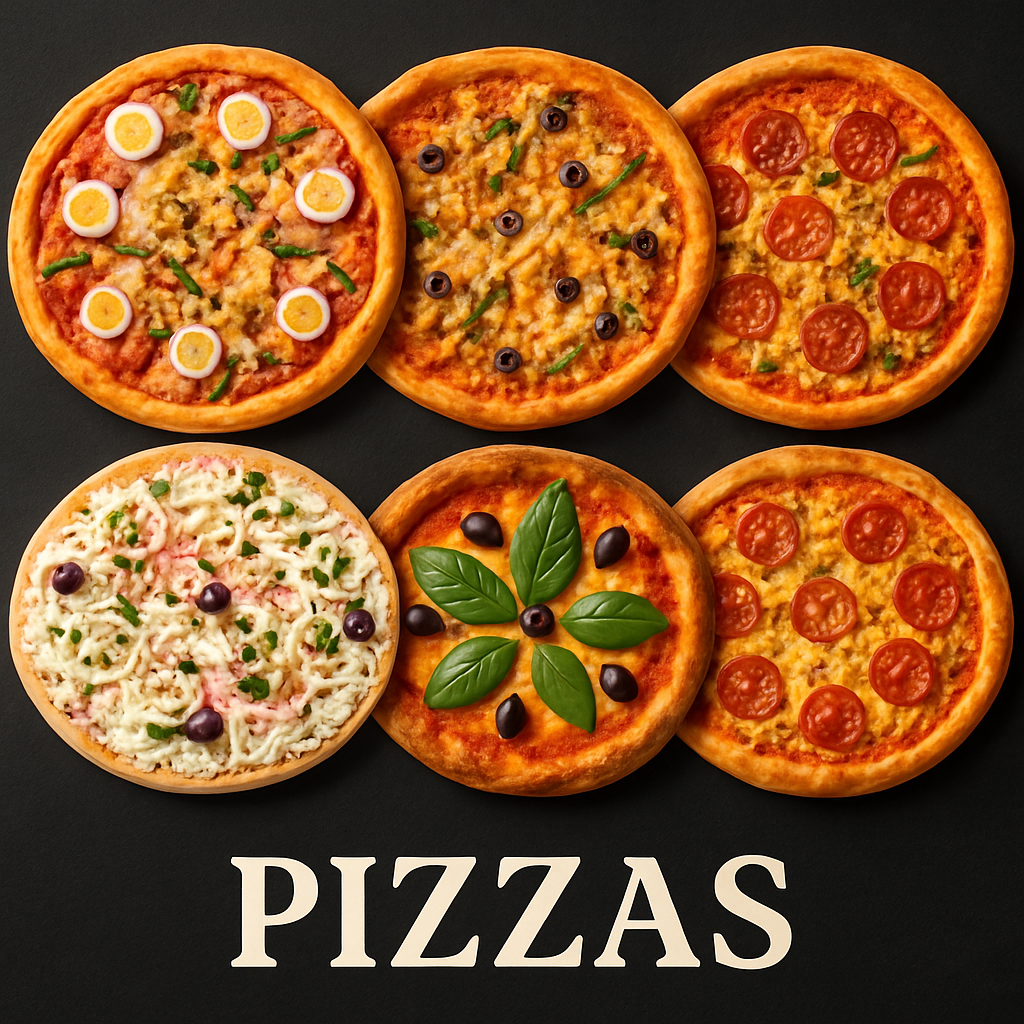
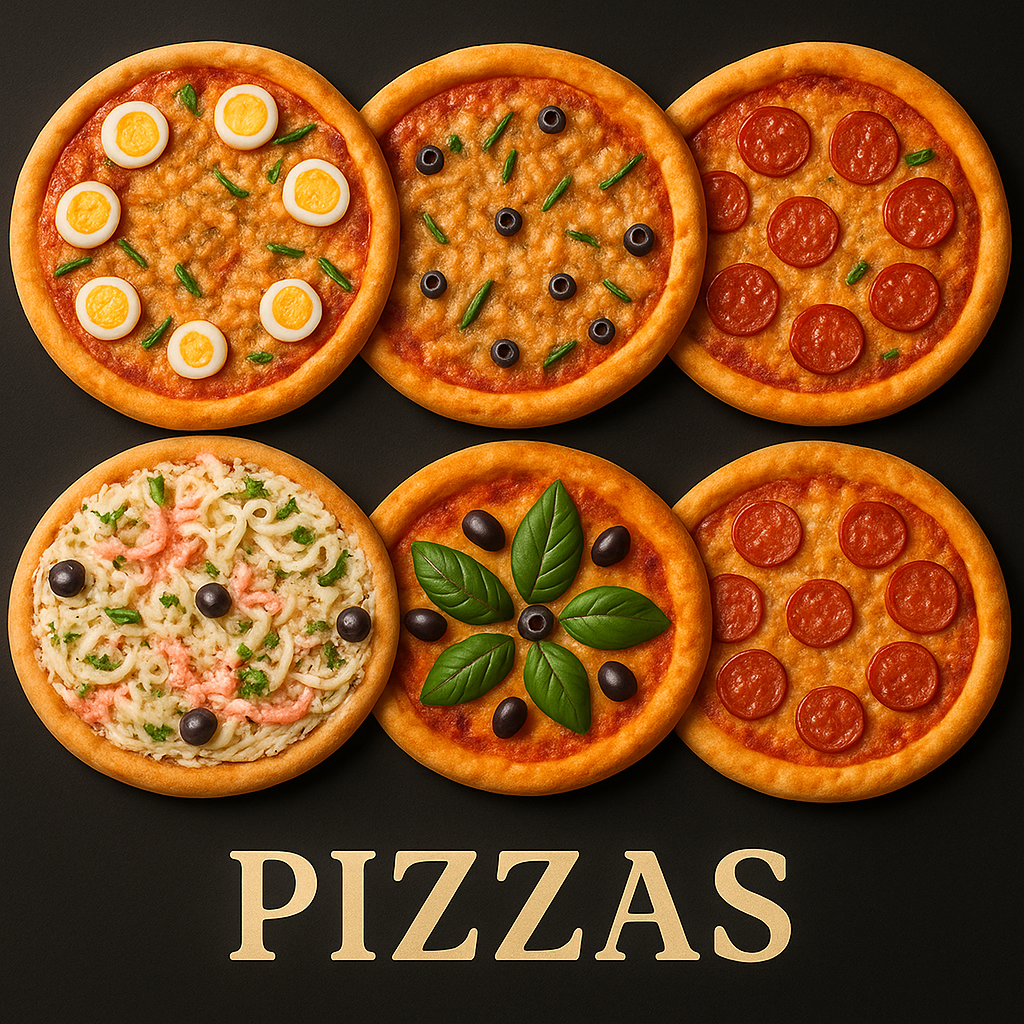
Alteração de imagens, ajustes de JS

diff --git a/js/main.js b/js/main.js
@@ -7,11 +7,12 @@ fetch('/navbar.html')
 
 let carrinho = []
 let total = 0
+let contador = 0;
 
-const pizza_gg = {nome: 'pizza_gg', valor: 64.99}
-const pizza_g = {nome: 'pizza_g', valor: 59.99}
-const pizza_m = {nome: 'pizza_m', valor: 45.99}
-const pizza_p = {nome: 'pizza_p', valor: 39.99}
+const pizza_gg = {nome: 'pizza_gg', valor: 64.99, quant_sabores: 4}
+const pizza_g = {nome: 'pizza_g', valor: 59.99, quant_sabores: 3}
+const pizza_m = {nome: 'pizza_m', valor: 45.99, quant_sabores: 2}
+const pizza_p = {nome: 'pizza_p', valor: 39.99, quant_sabores: 1}
 
 function add_produto(nome) {
     let produto = null;
@@ -31,21 +32,45 @@ function add_produto(nome) {
 
     carrinho.push({
         nome: produto.nome,
-        valor: produto.valor
+        valor: produto.valor,
+        sabores: produto.quant_sabores,
     });
 
     total += produto.valor;
 
+    //Variavel
+    // let nome = "Wilian";
+    // localStorage.setItem("nomeUsuario", nome);
+    
+    // Array ou objeto
+    // let config = { tema: "escuro", fonte: "Arial" };
+    // localStorage.setItem("configuracoes", JSON.stringify(config));
+
+    // Salva o array carrinho no localStorage
+    localStorage.setItem("carrinho_atual", JSON.stringify(carrinho));
+
     console.log("Carrinho:", carrinho);
     console.log("Total: R$", total.toFixed(2));
+    console.log("Sabores:", carrinho[0]["sabores"])
 
     return total.toFixed(2);
 }
 
-localStorage.setItem('carrinho', JSON.stringify(carrinho));
+let carrinho_atual = JSON.parse(localStorage.getItem("carrinho_atual"));
 
-let carrinhoSalvo = JSON.parse(localStorage.getItem('carrinho'));
-console.log(carrinhoSalvo);
+function add_dec_sabores() {
+    max = carrinho_atual[0]["sabores"];
+
+    if (contador < max) {
+        contador += 1;
+    }
+
+    console.log(contador);
+}
+
+document.addEventListener('DOMContentLoaded', function() {
+    console.log(carrinho_atual);
+})
 
 function enviar_dados(event) {
     event.preventDefault();
@@ -59,3 +84,41 @@ function enviar_dados(event) {
     const url = `https://wa.me/${numero}?text=${encodeURIComponent(mensagem)}`;
     window.open(url, '_blank');
 }
+
+// quant_texto = document.querySelectorAll('quant');
+
+// let max = 0
+// let contador = 0;
+
+// function tamanho_pizza(tamanho) {
+
+//     if (tamanho === 'pizza_gg') {
+//         max = 4;
+//     } else if (tamanho === 'pizza_g') {
+//         max = 3
+//     } else if (tamanho === 'pizza_m') {
+//         max = 2
+//     } else if (tamanho === 'pizza_p') {
+//         max = 1
+//     } else {
+//         console.log("Produto inválido");
+//         return;
+//     }
+//     console.log(max);
+// }
+
+// function incrementar() {
+//     if (contador < max) {
+//         contador += 1;
+//     } 
+//     console.log("Contador:", contador);
+//     return contador
+// }
+
+// function decrementar() {
+//     if (contador > 0) {
+//         contador -= 1;
+//     } 
+//     console.log("Contador:", contador);
+//     return contador
+// }

diff --git a/templates/pizzas/sabores/selecionar_sabor.html b/templates/pizzas/sabores/selecionar_sabor.html
@@ -6,58 +6,30 @@
        <link href="https://cdn.jsdelivr.net/npm/bootstrap@5.0.1/dist/css/bootstrap.min.css" rel="stylesheet" integrity="sha384-+0n0xVW2eSR5OomGNYDnhzAbDsOXxcvSN1TPprVMTNDbiYZCxYbOOl7+AMvyTG2x" crossorigin="anonymous">
        <link rel="stylesheet" href="/css/main.css">
        <title>title</title>
-
-       <script>
-            quant_texto = document.querySelectorAll('quant');
-
-            contador = 0
-
-            function incrementar() {
-                contador += 1
-                print(contador)
-            }
-
-            function decrementar() {
-                contador -= 1
-                print(contador)
-            }
-
-            function minhaFuncaoAoMudar(valor) {
-                alert("Valor alterado para: " + valor);
-            }
-
-       </script>
-
-        <style>
-            .remove_efect_a {
-                text-decoration: none;
-                color: black;
-            }
-        </style>
    </head>
    <body>
         <div id="navbar"></div>
 
         <div class="full-height-center" style="backdrop-filter: blur(15px);">
             <div class="container">
-                <a class="remove_efect_a" onclick="incrementar()">
-                    <div><span class="quant"></span> Calabresa</div>
+                <a class="remove_efect_a">
+                    <button onclick="add_dec_sabores()">Calabresa</button>
                 </a>
 
-                <a class="remove_efect_a" onclick="incrementar()">
-                    <div><span class="quant"></span> Portuguesa</div>
+                <a class="remove_efect_a">
+                    <button onclick="add_dec_sabores()">Portuguesa</button>
                 </a>
 
-                <a class="remove_efect_a" onclick="incrementar()">
-                    <div><span class="quant"></span> Frango com catupiry</div>
+                <a class="remove_efect_a">
+                    <button onclick="add_dec_sabores()">Frango com catupiry</button>
                 </a>
                     
-                <a class="remove_efect_a" onclick="incrementar()">
-                    <div><span class="quant"></span> Bacon</div>
+                <a class="remove_efect_a">
+                    <button onclick="add_dec_sabores()">Bacon</button>
                 </a>
             </div>
         </div>
    </body>
    <script src="/js/main.js"></script>
    <script src="https://cdn.jsdelivr.net/npm/bootstrap@5.0.1/dist/js/bootstrap.bundle.min.js" integrity="sha384-gtEjrD/SeCtmISkJkNUaaKMoLD0//ElJ19smozuHV6z3Iehds+3Ulb9Bn9Plx0x4" crossorigin="anonymous"></script>
-</html>
+</html

diff --git a/templates/pizzas/pizzas.html b/templates/pizzas/pizzas.html
@@ -50,7 +50,7 @@
                                        <path d="M0 0h24v24H0z" fill="none"></path>
                                        <path d="M11 11V5h2v6h6v2h-6v6h-2v-6H5v-2z" fill="currentColor"></path>
                                    </svg>
-                                   <span onclick="add_produto('pizza_g')">Sabores</span>
+                                   <span onclick="add_produto('pizza_g');">Sabores</span>
                                </button>
                            </div>
                        </div>
@@ -70,7 +70,7 @@
                                        <path d="M0 0h24v24H0z" fill="none"></path>
                                        <path d="M11 11V5h2v6h6v2h-6v6h-2v-6H5v-2z" fill="currentColor"></path>
                                    </svg>
-                                   <span onclick="add_produto('pizza_m')">Sabores</span>
+                                   <span onclick="add_produto('pizza_m');">Sabores</span>
                                </button>
                            </div>
                        </div>
@@ -90,7 +90,7 @@
                                        <path d="M0 0h24v24H0z" fill="none"></path>
                                        <path d="M11 11V5h2v6h6v2h-6v6h-2v-6H5v-2z" fill="currentColor"></path>
                                    </svg>
-                                   <span onclick="add_produto('pizza_p')">Sabores</span>
+                                   <span onclick="add_produto('pizza_p');">Sabores</span>
                                </button>
                            </div>
                        </div>

diff --git a/templates/carrinho.html b/templates/carrinho.html
@@ -8,16 +8,28 @@
        <title>title</title>
    </head>
    <body>
-       <div class="container">
-            <div>
-                <form onsubmit="enviar_dados(event)">
-                    <textarea name="mensagem" placeholder="Escreva sua mensagem aqui"></textarea>
-                    <button type="submit">Enviar pelo WhatsApp</button>
-                </form>
-            </div>
-       </div>
+
+    <div class="container p-2 border border-1 w-50 mt-5">
+        <div>
+            <h4 id="carrinho_nome"></h4>
+            <h5 id="carrinho_valor"></h5>
+        </div>
+    </div>
+    <br>
+    
+    <div class="container w-50">
+        <div>
+            <form onsubmit="enviar_dados(event)">
+                <textarea name="mensagem" placeholder="Escreva sua mensagem aqui"></textarea>
+                <br>
+                <button type="submit">Enviar pelo WhatsApp</button>
+            </form>
+        </div>
+    </div>
+
    </body>
+   <script src="/js/main.js"></script>
+   <script src="/js/carrinho.js"></script>
    <script src="https://cdn.jsdelivr.net/npm/bootstrap@5.0.1/dist/js/bootstrap.bundle.min.js" 
    integrity="sha384-gtEjrD/SeCtmISkJkNUaaKMoLD0//ElJ19smozuHV6z3Iehds+3Ulb9Bn9Plx0x4" crossorigin="anonymous"></script>
-   <script src="js/main.js"></script>
 </html>

diff --git a/navbar.html b/navbar.html
@@ -9,7 +9,7 @@
                        </svg>
                    </span>
                </a>
-               <a href="templates/carrinho.html" class="border border-1 p-1 rounded bg-white" style="text-decoration: none; color: black;">
+               <a href="/templates/carrinho.html" class="border border-1 p-1 rounded bg-white" style="text-decoration: none; color: black;">
                     <span>
                         <svg xmlns="http://www.w3.org/2000/svg" viewBox="0 0 640 640" width="30">
                             <path d="M24 48C10.7 48 0 58.7 0 72C0 85.3 10.7 96 24 96L69.3 96C73.2 96 76.5 98.8 77.2 102.6L129.3 388.9C135.5 423.1 165.3 448 200.1 448L456 448C469.3 448 480 437.3 480 424C480 410.7 469.3 400 456 400L200.1 400C188.5 400 178.6 391.7 176.5 380.3L171.4 352L475 352C505.8 352 532.2 330.1 537.9 299.8L568.9 133.9C572.6 114.2 557.5 96 537.4 96L124.7 96L124.3 94C119.5 67.4 96.3 48 69.2 48L24 48zM208 576C234.5 576 256 554.5 256 528C256 501.5 234.5 480 208 480C181.5 480 160 501.5 160 528C160 554.5 181.5 576 208 576zM432 576C458.5 576 480 554.5 480 528C480 501.5 458.5 480 432 480C405.5 480 384 501.5 384 528C384 554.5 405.5 576 432 576z"/>

diff --git a/index.html b/index.html
@@ -75,10 +75,7 @@
                 </div>
             </div>
        </div>
-
-        <!-- Combo casal: R$34,99 
-        Combo Familia: R$54,99 
-        Combo Royal: R$94,99  -->
+       <br><br>
 
        <script src="js/main.js"></script>
        <script src="https://cdn.jsdelivr.net/npm/bootstrap@5.0.1/dist/js/bootstrap.bundle.min.js" 

diff --git a/js/carrinho.js b/js/carrinho.js
@@ -1,0 +1,6 @@
+exibir_nome = document.getElementById('carrinho_nome');
+
+exibir_valor = document.getElementById('carrinho_valor');
+
+exibir_nome.textContent = `Nome: ${carrinho_atual[0]["nome"]} `;
+exibir_valor.textContent = `Valor: ${carrinho_atual[0]["valor"]} `;

diff --git a/css/main.css b/css/main.css
@@ -32,5 +32,10 @@ body {
     height: 12rem;
 }
 
+.remove_efect_a {
+    text-decoration: none;
+    color: black;
+}
+
 
 
